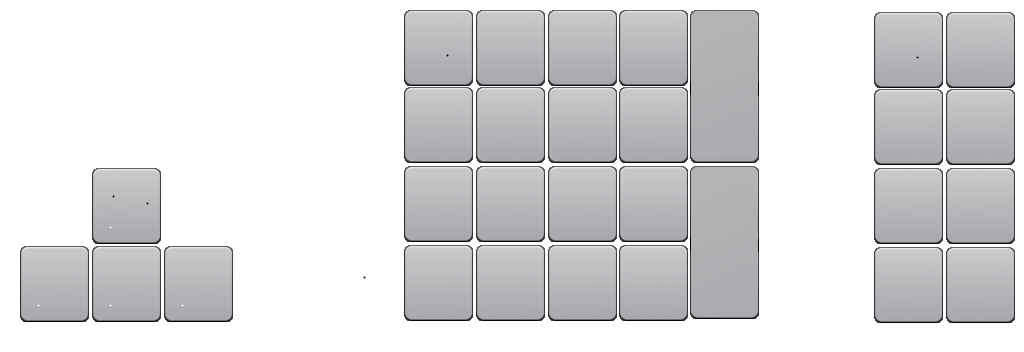
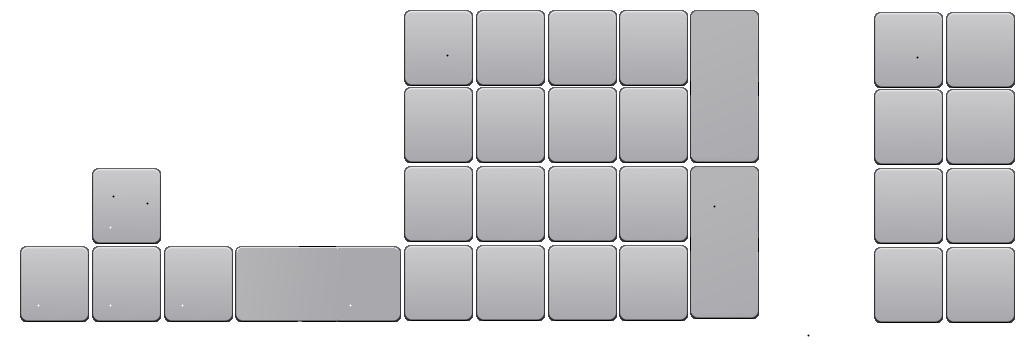
1.0.4 Changes for Special Keys Keyboard

Changed region(s): [[0.2188, 0.6875, 0.4062, 0.9375]]

diff --git a/OtherSources/CustomIOSKeyboard/iPad/PKCustomKeyboard.m b/OtherSources/CustomIOSKeyboard/iPad/PKCustomKeyboard.m
@@ -14,10 +14,11 @@
 
 @end
 
-@implementation PKCustomKeyboard {
+@implementation PKCustomKeyboard
 
-}
 @synthesize textView = _textView;
+
+
 
 #define kFont [UIFont fontWithName:@"GurmukhiMN" size:25]
 #define kAltLabel @"!?੧੨੩"
@@ -28,9 +29,10 @@
 
 - (id)init {
     
-	/*UIInterfaceOrientation orientation = [[UIDevice currentDevice] orientation];
+	UIInterfaceOrientation orientation = [[UIDevice currentDevice] orientation];
 	CGRect frame;
 
+    
 	if(UIDeviceOrientationIsLandscape(orientation))
         frame = CGRectMake(0, 0, 1024, 352);
     else 
@@ -44,7 +46,7 @@
         self = [nib objectAtIndex:0];
     }
 	
-	NSMutableArray *buttons = [NSMutableArray arrayWithArray:self.characterKeys];
+	/*NSMutableArray *buttons = [NSMutableArray arrayWithArray:self.characterKeys];
 	[buttons addObjectsFromArray:self.altButtons];
 	[buttons addObject:self.returnButton];
 	[buttons addObject:self.dismissButton];
@@ -205,23 +207,32 @@
 - (IBAction)characterPressed:(id)sender {
     [[UIDevice currentDevice] playInputClick];
 	UIButton *button = (UIButton *)sender;
-	NSString *character = [NSString stringWithString:button.titleLabel.text];
+    
+    int asciikeycode = (button ==  self.bLeft ? SDLK_LEFT :
+                                        SDLK_RIGHT );
+    
+    
+    NSString *character = [NSString stringWithFormat:@"%d", asciikeycode];
+    [self.textView insertText:character];
+    
+    
 	
-	if ([[character substringToIndex:1] isEqualToString:@"◌"])
+	/*if ([[character substringToIndex:1] isEqualToString:@"◌"])
 		character = [character substringFromIndex:1];
 	
 	else if ([[character substringFromIndex:character.length - 1] isEqualToString:@"◌"])
-		character = [character substringToIndex:character.length - 1];
+		character = [character substringToIndex:character.length - 1];*/
 	
+    
 	[self.textView insertText:character];
 
 	/*if (self.isShifted)
 		[self unShift];*/
 	
-	if ([self.textView isKindOfClass:[UITextView class]])
+	/*if ([self.textView isKindOfClass:[UITextView class]])
 		[[NSNotificationCenter defaultCenter] postNotificationName:UITextViewTextDidChangeNotification object:self.textView];
 	else if ([self.textView isKindOfClass:[UITextField class]])
-		[[NSNotificationCenter defaultCenter] postNotificationName:UITextFieldTextDidChangeNotification object:self.textView];
+		[[NSNotificationCenter defaultCenter] postNotificationName:UITextFieldTextDidChangeNotification object:self.textView];*/
 }
 
 /* UI Utilities */

diff --git a/OtherSources/CustomIOSKeyboard/iPad/PKCustomKeyboard.h b/OtherSources/CustomIOSKeyboard/iPad/PKCustomKeyboard.h
@@ -8,8 +8,39 @@
 
 #import <UIKit/UIKit.h>
 #import <QuartzCore/QuartzCore.h>
+#import "SDL.h"
 
-@interface PKCustomKeyboard : UIView <UIInputViewAudioFeedback>
+@interface PKCustomKeyboard : UIView <UIInputViewAudioFeedback> /*{
+    UIImageView *keyboardBackground;
+    UIButton *bDown;
+    UIButton *bUp;
+    UIButton *bLeft;
+    UIButton *bRight;
+    UIButton *b0;
+    UIButton *b1;
+    UIButton *b2;
+    UIButton *b3;
+    UIButton *b4;
+    UIButton *b5;
+    UIButton *b6;
+    UIButton *b7;
+    UIButton *b8;
+    UIButton *b9;
+    UIButton *bBracketleft;
+    UIButton *bBracketright;
+    UIButton *bDivide;
+    UIButton *bMultiply;
+    UIButton *bMinus;
+    UIButton *bPlus;
+    UIButton *bShiftfleft;
+    UIButton *bShiftright;
+    UIButton *bAltLeft;
+    UIButton *bAltRight;
+    UIButton *bCtrlLeft;
+    UIButton *bCtrlRight;
+    UIButton *bAright;
+    UIButton *bAleft;
+}*/
 
 @property (strong, nonatomic) IBOutlet UIImageView *keyboardBackground;
 @property (strong, nonatomic) IBOutletCollection(UIButton) NSArray *characterKeys;
@@ -41,12 +72,11 @@
 @property (strong, nonatomic) IBOutlet UIButton *bShiftfleft;
 @property (strong, nonatomic) IBOutlet UIButton *bShiftright;
 @property (strong, nonatomic) IBOutlet UIButton *bAltLeft;
-@property (strong, nonatomic) IBOutletUIButton *bAltRight;
+@property (strong, nonatomic) IBOutlet UIButton *bAltRight;
 @property (strong, nonatomic) IBOutlet UIButton *bCtrlLeft;
 @property (strong, nonatomic) IBOutlet UIButton *bCtrlRight;
 @property (strong, nonatomic) IBOutlet UIButton *bAright;
 @property (strong, nonatomic) IBOutlet UIButton *bAleft;
-
 @property (strong) id<UITextInput> textView;
 
 - (IBAction)returnPressed:(id)sender;

diff --git a/iUAEParents/IOSKeyboard.m b/iUAEParents/IOSKeyboard.m
@@ -263,6 +263,19 @@
 
 }
 
+- (IBAction)specialkeypressed:(id)sender
+{
+    UITextField *textfield = [sender object];
+    
+    int asciicodekey = [textfield.text intValue];
+    
+    if(asciicodekey == SDLK_LEFT)
+    {
+    }
+    
+    [textfield setText:@""];
+}
+
 - (IBAction)keypressed:(id)sender
 {
     /* Get String */
@@ -486,7 +499,7 @@
                                                  object:dummy_textfield_f];
    
     [[NSNotificationCenter defaultCenter]   addObserver:self
-                                               selector:@selector(keypressed:)
+                                               selector:@selector(specialkeypressed:)
                                                    name:UITextFieldTextDidChangeNotification
                                                  object:dummy_textfield_s];
     
